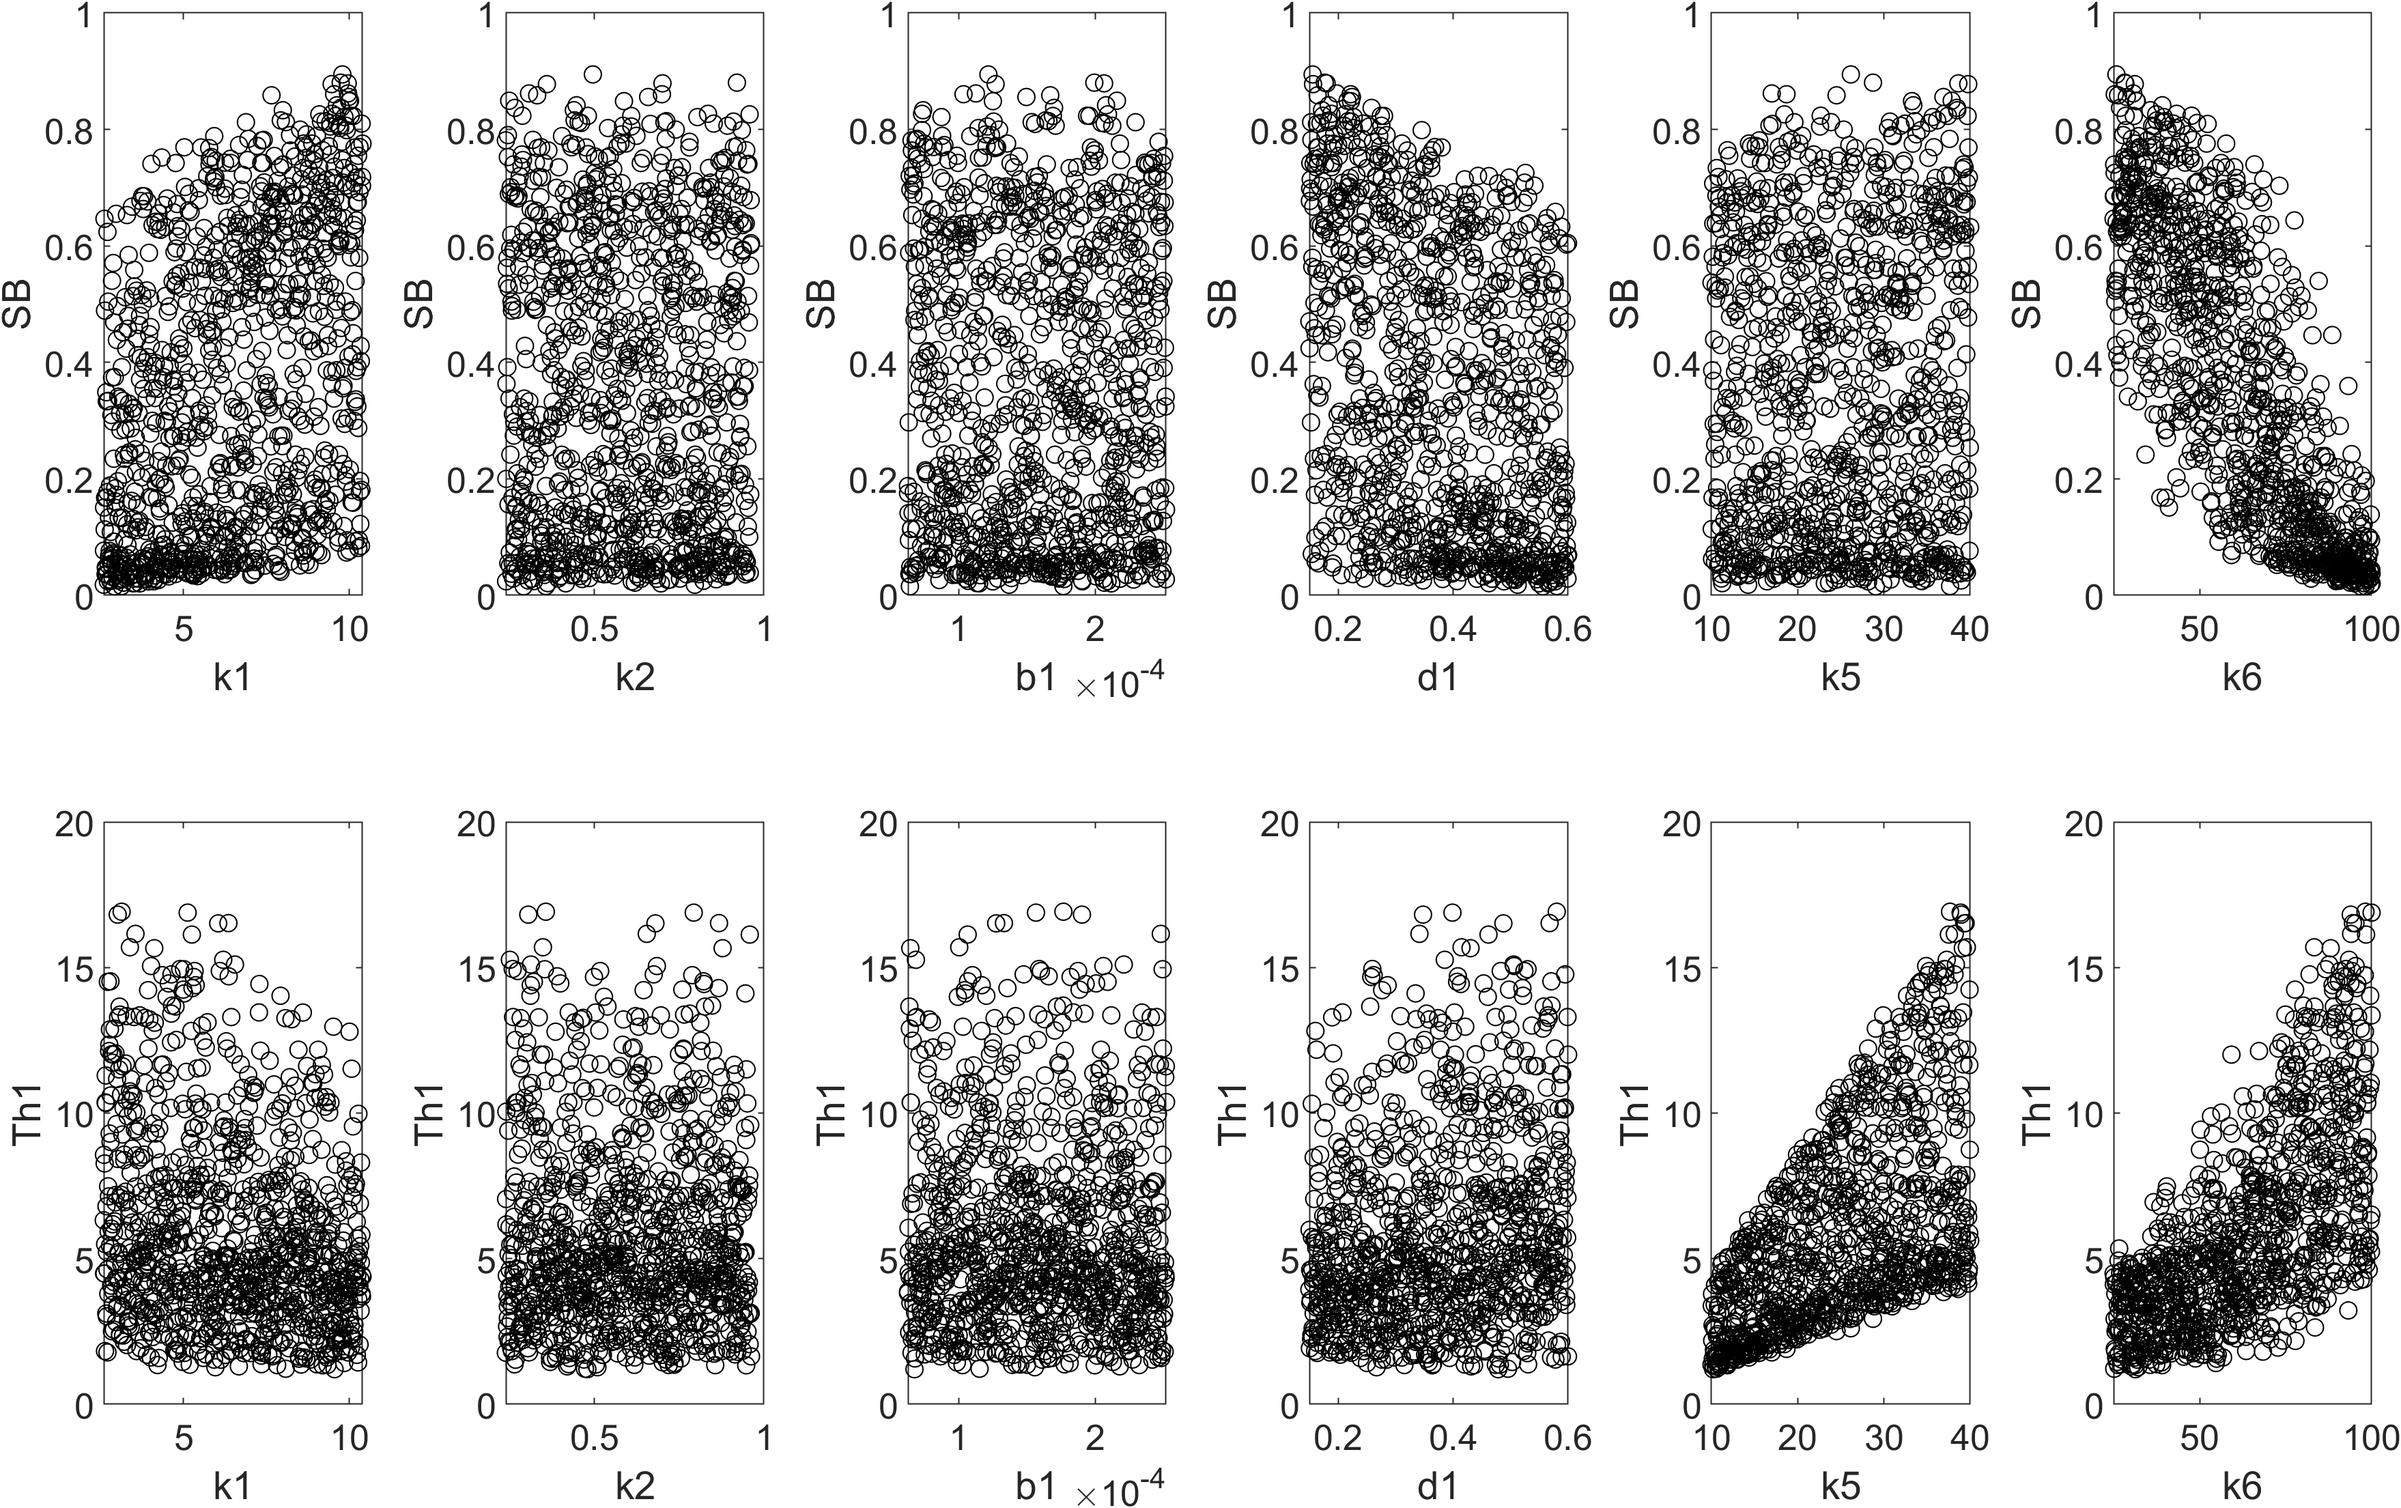
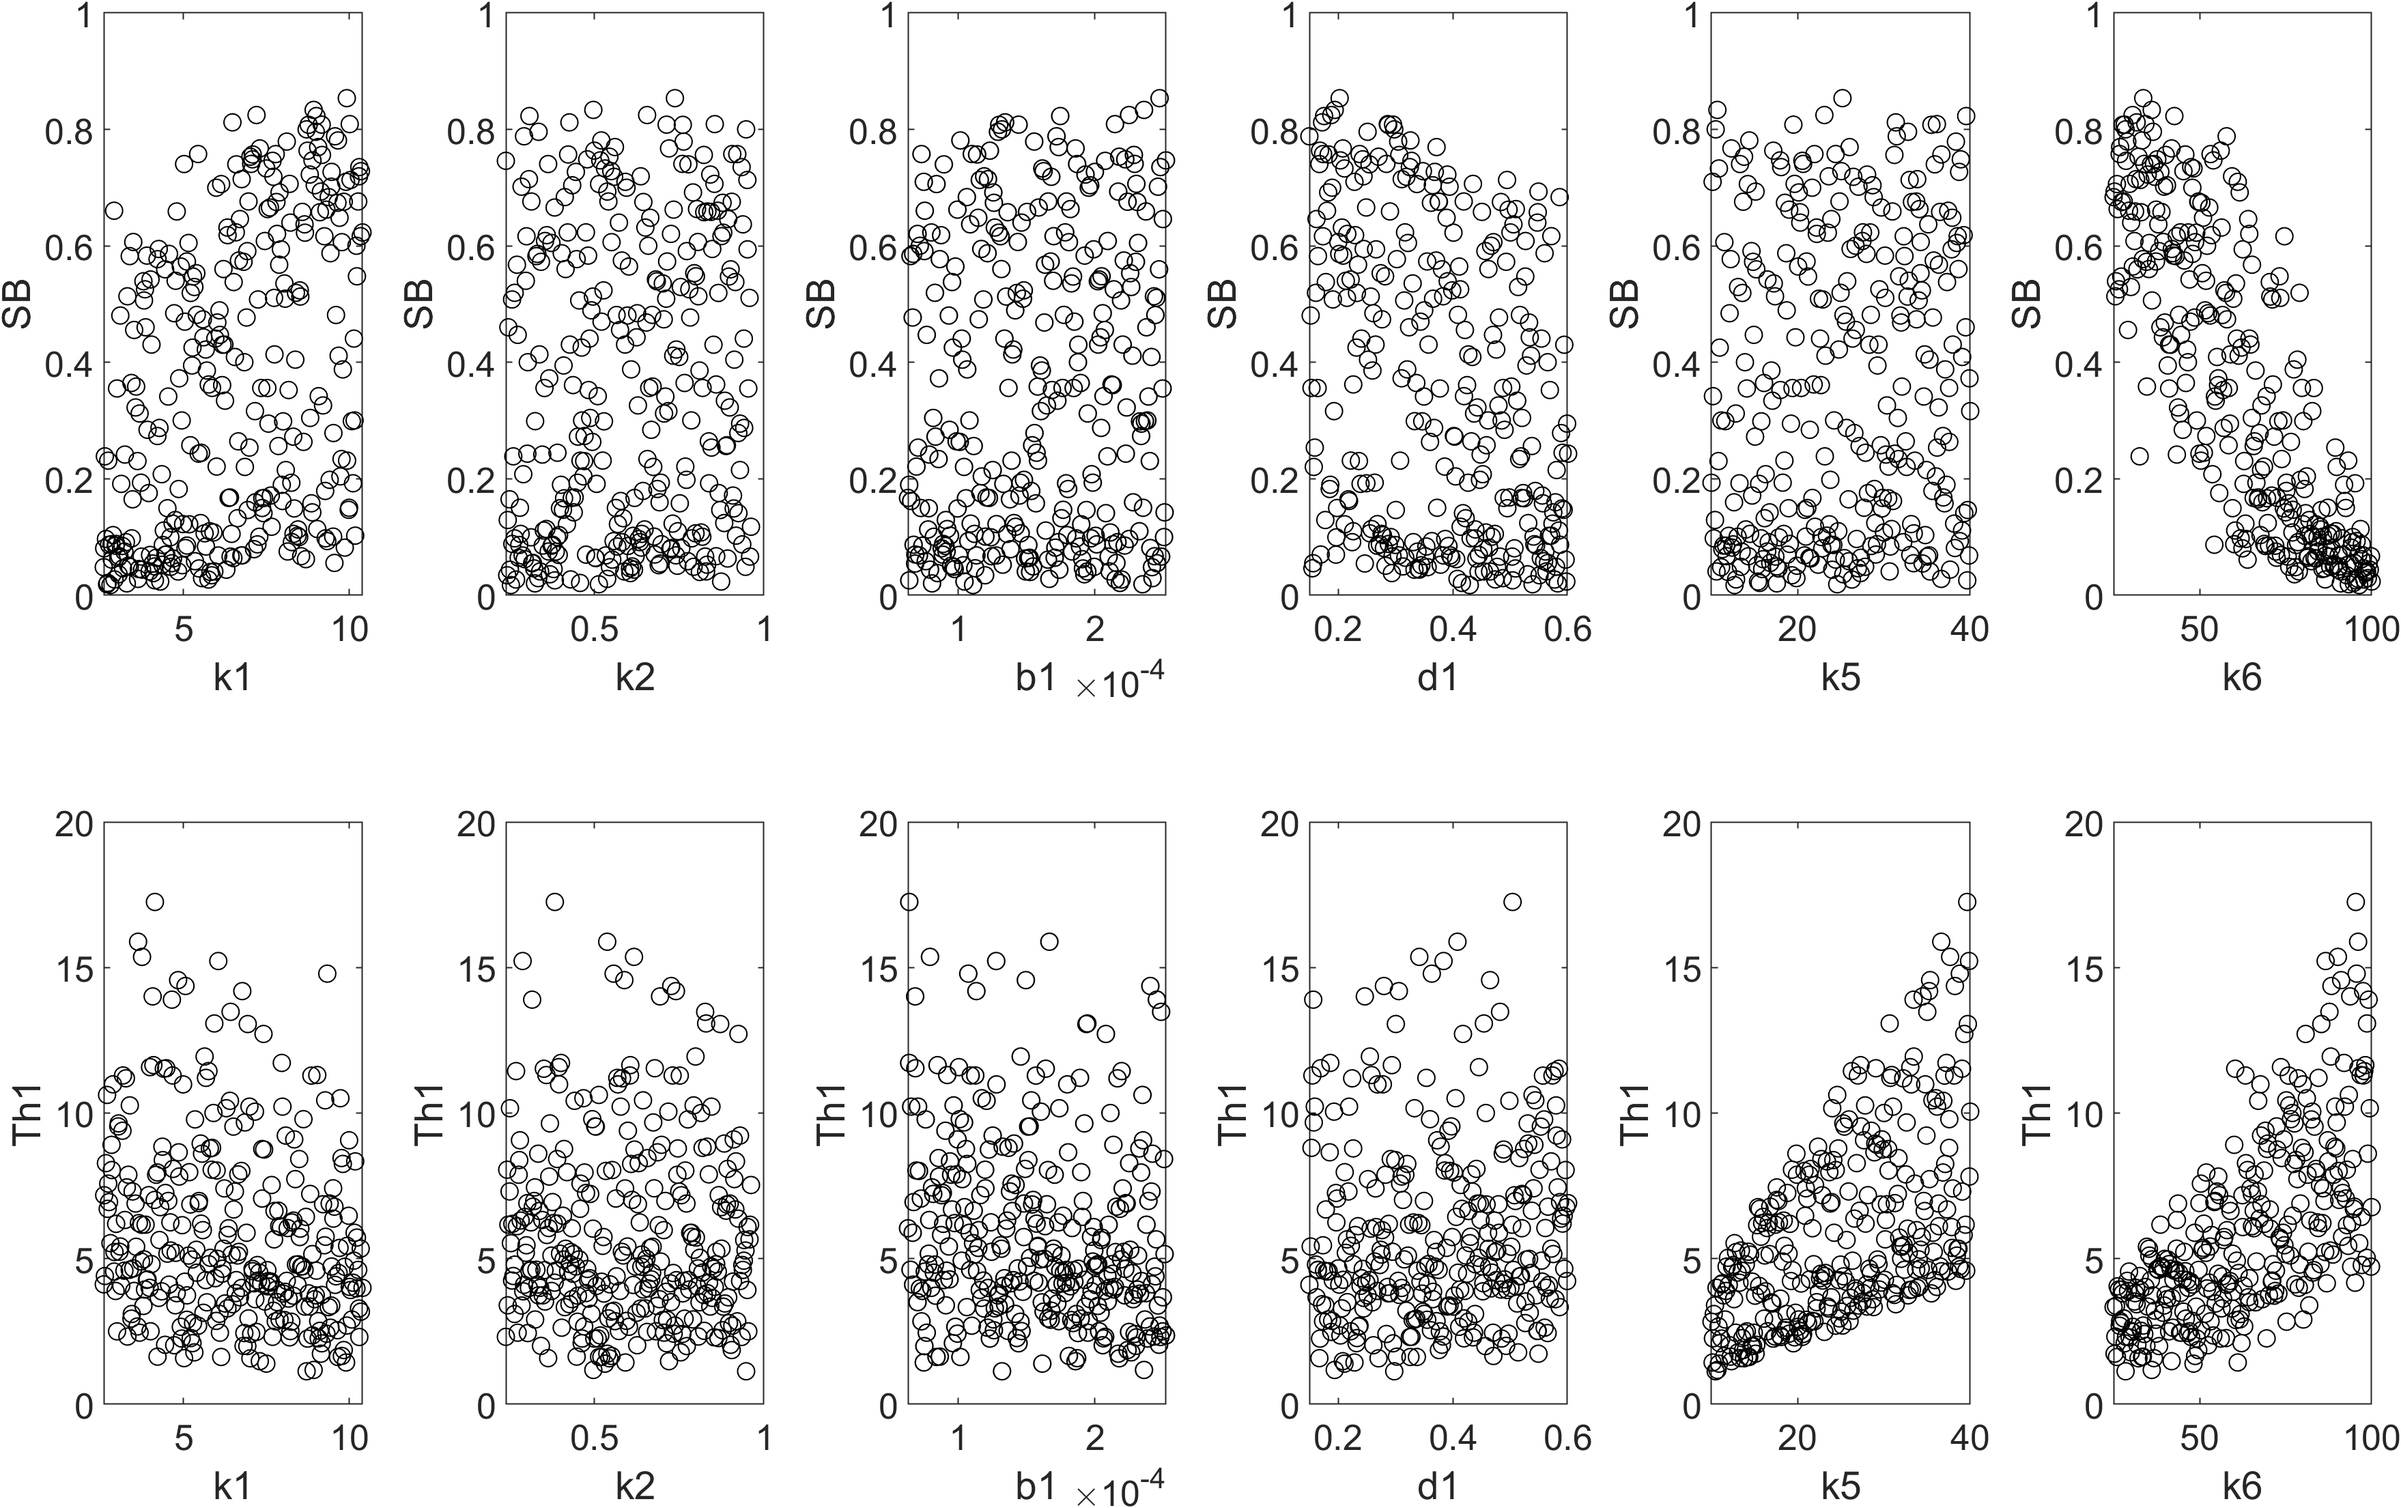
added example of morris finited difference

diff --git a/convertedMatlab/sensMorrisFdExample.m b/convertedMatlab/sensMorrisFdExample.m
@@ -1,0 +1,89 @@
+% sensMorrisFdExample - Example file by Jaimit Parikh to run the  Finite difference 
+% based morris sensitivity analysis on the QSP AD model based on code
+% shared by Ralph Smith
+
+
+import qspADmodel.*; % Import the functions from the qspADmodel package
+import sa.*; % Import the functions from the sa (sensitivity analysis) package
+
+
+% 1. Get parameters of the AD model
+parameters = adModelPars();
+
+% 2. Sample using Latin hypercube sampling the parameter values and running
+% simulations for the samples
+
+% Sampling for the desired parameters
+parsName = ["k1",  "k2", "b1", "d1", "k5", "k6"];
+nParameters = length(parsName);
+problem.lowerBound = [2.6,  0.24,  6.3e-5,  0.15, 10, 25];
+problem.upperBound = [10.4, 0.96, 2.52e-4, 0.6,  40, 100];
+problem.num_vars = nParameters;
+problem.names = parsName;
+n = 300; % number of samples
+delta = 1e-7; %(problem.upperBound - problem.lowerBound) / 1000;
+samples = morrisFdSampling(problem,  n, delta);
+N = size(samples, 1); 
+
+% Simulating AD model for the desired parameter set and extracting SB and
+% Th1 state variables
+de = adDrugEffects();
+IC = getInitialConditions();
+t0 = 0; tfinal = 50;
+SB = zeros(1, N); Th1 = zeros(1, N);
+pN = cell(1,N);
+for ii = 1:N
+    pN{ii} = updateADPars(parameters, parsName, samples(ii, :));
+    [T,Y] = ode15s(@(t, y)odefun(t, y, pN{ii}, de),...
+        [t0 tfinal], IC);
+    SB(ii) = Y(end, 1);
+    Th1(ii) = Y(end, 3);
+end
+
+% Scatter Plot of SB and Th1 vs selected parameters
+plotScatter(samples, SB, Th1, parsName, './figures/scatter.png');
+
+Y = [SB', Th1'];
+S = morrisFdAnalysis(samples, Y);
+
+S1 = S.mustar ./ sum(S.mustar);
+
+plotSAresults(S1(:, 1), S1(:, 2), parsName, 'temp.png', 'Morris FD');
+
+
+function plotScatter(samples, SB, Th1,  parsName, fname)
+f = figure('DefaultAxesFontSize', 14, 'Position', [40, 40, 1400, 800]);
+for ii = 1:6
+    subplot(2, 6, ii);
+    plot(samples(:, ii), SB, 'ko'); xlabel(parsName(ii)); ylabel('SB');
+    
+    subplot(2, 6, ii+6);
+    plot(samples(:, ii), Th1, 'ko'); xlabel(parsName(ii)); ylabel('Th1');
+end
+exportgraphics(f, fname, 'resolution', 300);
+end
+
+function p = updateADPars(p, parsName, parsValue)
+
+for ii = 1:length(parsName)
+    p.(parsName(ii)) = parsValue(ii);
+end
+
+end
+
+function plotSAresults(SB, Th1, parsName, fname, tname)
+f = figure('DefaultAxesFontSize', 14, 'Position', [40, 40, 1400, 800]);
+subplot(1, 3, 1);
+bar(SB); xticklabels(parsName); ylabel('PRCC');
+title('SB')
+subplot(1, 3, 2);
+bar(Th1); xticklabels(parsName); ylabel('PRCC');
+title('Th1');
+subplot(1, 3, 3);
+heatmap(["SB", "Th1"], parsName, [SB, Th1], 'Colormap', hsv);
+title(tname);
+exportgraphics(f,fname, 'resolution', 300);
+
+end
+
+

diff --git a/convertedMatlab/+sa/morrisFdSampling.m b/convertedMatlab/+sa/morrisFdSampling.m
@@ -1,0 +1,41 @@
+function samples =morrisFdSampling(problem, N, delta)
+arguments
+    problem;
+    N;
+    delta =1e-3; % optional input parameter or vector 
+end
+% morrisFdSampling generates samples using lhs scheme to pefrom 
+% Morris Finite Different based SA analysis.
+% The samples are scaled by upper and lower bounds.
+% Inputs
+%   problem - struct
+        % problem has to have the following fields:
+        %    lowerBound - desired lower bound of each of the parameters
+        %    upperBound - desired upper bound of each of the parameters
+        %    num_vars - number of parameters 
+        %    names - optionally name of the parameters 
+%   N - int The total number of returned samples is N * num_vars
+%   delta -  step size for finite difference, set to default value of 1 / 20
+% Outputs
+%   samples - The samples for morris finite different gsa analysis
+% Last updated July 29 2021 by Jaimit Parikh
+
+
+if ~all(isfield(problem, ["lowerBound", "upperBound", "num_vars"]))
+    error("The necessary fields in the problem structure are not included."...
+        +" The required field names are lowerBound, upperBound, and num_vars")
+end
+
+import sa.latinHypercubeSampling
+iniSamples = latinHypercubeSampling(problem, N);
+
+nPars = problem.num_vars; 
+
+samplesN = repelem(iniSamples, nPars+1, 1);
+deltaM =[zeros(1, nPars); delta.*diag(ones(1, nPars))];
+deltaM = repmat(deltaM, N, 1);
+
+
+samples = samplesN + deltaM ; 
+
+end

diff --git a/convertedMatlab/+sa/morrisFdAnalysis.m b/convertedMatlab/+sa/morrisFdAnalysis.m
@@ -1,0 +1,38 @@
+function S = morrisFdAnalysis(X, Y)
+arguments
+    X; %  n x k ... n input samples with k parameters
+    Y; % n x m ... n samples with m output variable of interest  
+end
+% Morris finited difference based analysis to estimate the sensitivity of
+% response variable Y to parameters X
+% Inputs
+    % X -   n x k ... n input samples with k parameters
+    % Y - n x m ... n samples with m output variable of interest  
+% Outputs
+    % S - strucutre with sensitivity indices
+    %   S.mustar - 
+    %   S.sigma -
+
+
+% Last updated July 29th 2021 by Jaimit Parikh
+k = size(X, 2);  %number of parameters
+r = size(X, 1) / (k + 1);
+yStar = Y(1:k+1:end, :);
+mu = zeros( k, size(Y,2));
+mus = zeros(k, size(Y,2));
+sigma= zeros(k, size(Y,2));
+variation = max(X) - min(X);
+for ii = 1:k
+    delta = X(ii+1, ii) - X(1, ii);
+    disp(delta);
+    yA = Y(ii+1:k+1:end, :);
+    fd = variation(ii) * (yA - yStar) / delta ; 
+    mu(ii, :) = sum(fd) / r;
+    mus(ii, :) = sum(abs(fd)) / r ;
+    sigma(ii, :)  = sum((fd - mu(ii)).^2) / (r - 1); 
+end
+
+  S.mustar = mus;
+  S.sigma = sigma;
+
+end
